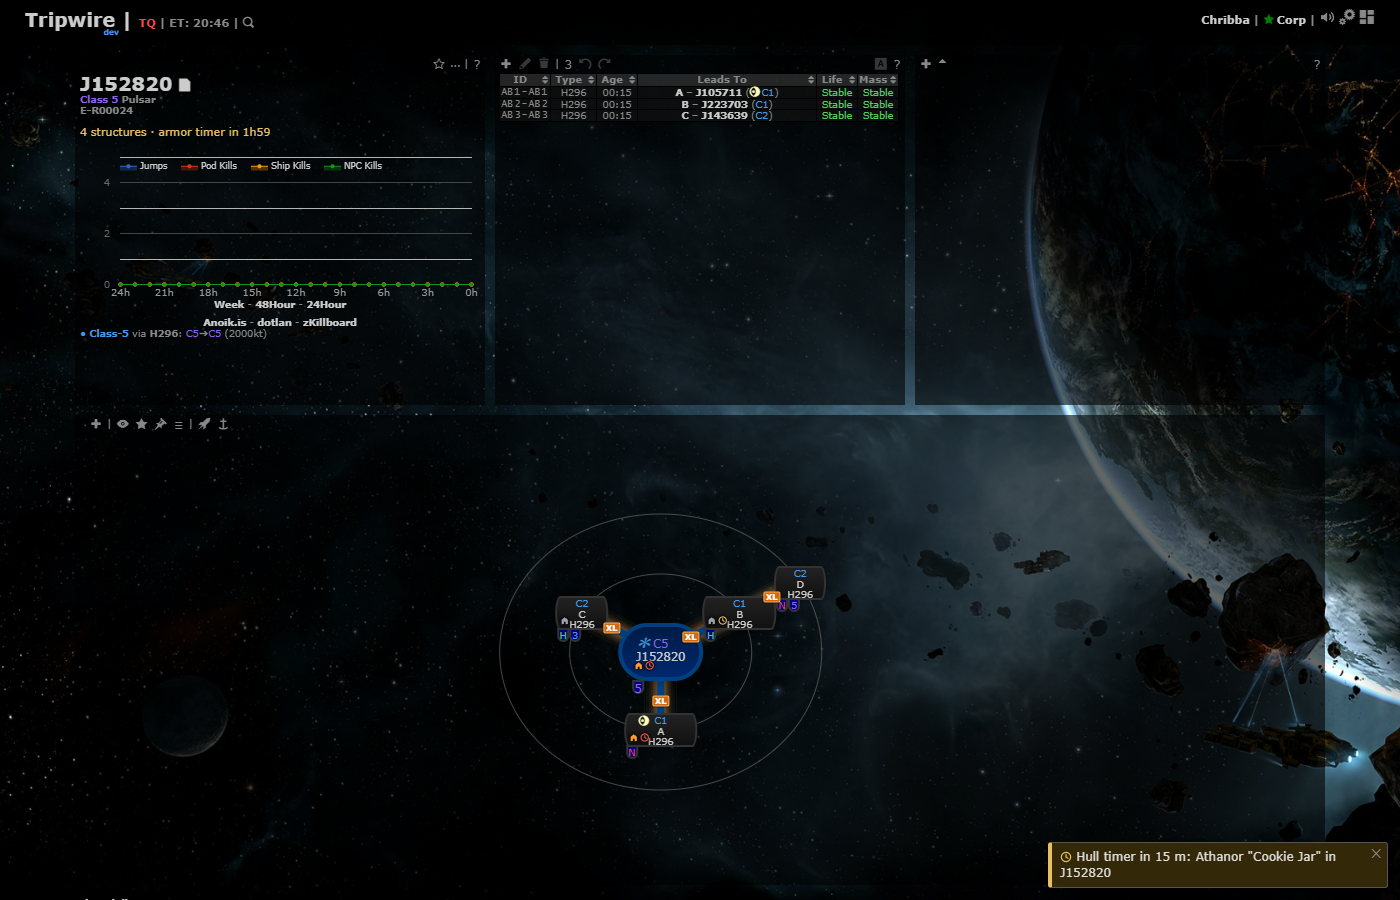
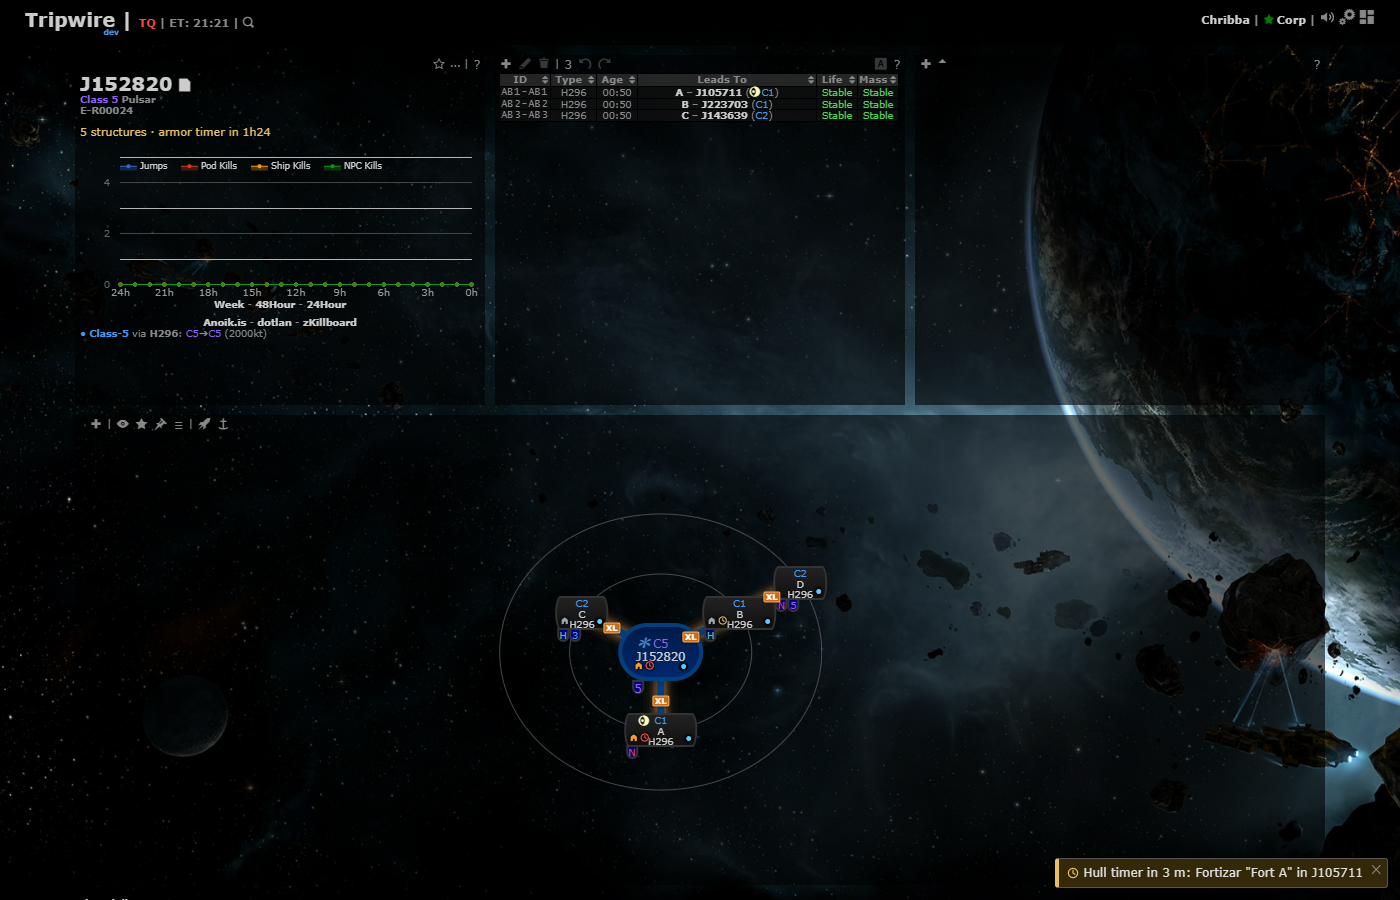
Structure timer reminders: review round 1 fixes

Changed region(s): [[0.7371, 0.9333, 1.0, 0.9956]]

diff --git a/app/js/fork/structure-timers.js b/app/js/fork/structure-timers.js
@@ -191,7 +191,8 @@ const structureTimers = {
 			if (!r || !r.timerAt || !r.timerKind || nowSec >= r.timerAt + structureTimers.ALERT_GRACE_S) { return; }
 			let lead = null;
 			structureTimers.ALERT_LEADS.forEach(function(l) {
-				if (r.timerAt - l <= nowSec && (lead === null || l < lead)) { lead = l; }
+				// Due, and not one that fell due before the timer was entered (the same rule as the Discord reminders)
+				if (r.timerAt - l <= nowSec && r.timerAt - l >= (r.timerSetAt || 0) && (lead === null || l < lead)) { lead = l; }
 			});
 			if (lead === null) { return; }
 			const key = r.id + ":" + r.timerAt + ":" + lead;
@@ -201,18 +202,20 @@ const structureTimers = {
 		return out.sort(function(a, z) { return a.row.timerAt - z.row.timerAt; });
 	},
 
-	/** "Hull timer in 15 m: Fortizar in J163701" */
-	alertText: function(alert, systemName) {
+	/** "Hull timer in 9 m: Fortizar "Fort Knox" in J163701" (the real minutes left when it is shown, "ended" from the end on) */
+	alertText: function(alert, systemName, nowSec) {
 		const r = alert.row;
 		const kind = (structureTimers.KIND_SHORT[r.timerKind] || "Timer") + " timer";
-		return kind + (alert.lead > 0 ? " in 15 m" : " ended") + ": " + r.typeName + (r.name ? " \"" + structures.splitName(r.name).rest + "\"" : "") + " in " + systemName;
+		const left = nowSec === undefined ? alert.lead : r.timerAt - nowSec;
+		const when = left <= 0 ? " ended" : left < 60 ? " in under a minute" : " in " + Math.ceil(left / 60) + " m";
+		return kind + when + ": " + r.typeName + (r.name ? " \"" + structures.splitName(r.name).rest + "\"" : "") + " in " + systemName;
 	},
 
-	alertHtml: function(alert, systemName) {
+	alertHtml: function(alert, systemName, nowSec) {
 		const esc = structures.escape;
 		return "<div class='kill-toast kill-toast-timer" + (alert.lead === 0 ? " kill-toast-timer-end" : "") + "' data-key='" + esc(alert.key) + "' title='Open the Timers board'>"
 			+ "<span class='kill-toast-close' title='Dismiss'>&#10005;</span>"
-			+ "<div class='kill-toast-text'><span class='str-alert-ico'>" + structures.icon("clock") + "</span> " + esc(structureTimers.alertText(alert, systemName)) + "</div></div>";
+			+ "<div class='kill-toast-text'><span class='str-alert-ico'>" + structures.icon("clock") + "</span> " + esc(structureTimers.alertText(alert, systemName, nowSec)) + "</div></div>";
 	},
 
 	// ---- Browser state ----
@@ -345,7 +348,7 @@ const structureTimers = {
 		let sound = null;
 		due.forEach(function(a) {
 			structureTimers.alerted[a.key] = true;
-			const $toast = $(structureTimers.alertHtml(a, structures.systemName(a.row.systemID)));
+			const $toast = $(structureTimers.alertHtml(a, structures.systemName(a.row.systemID), structureTimers.nowSec()));
 			$toast.on("click", function() { structureTimers.showPanel("timers"); $toast.remove(); });
 			$box.append($toast);
 			setTimeout(function() { $toast.fadeOut(400, function() { $toast.remove(); }); }, 20000);

diff --git a/app/js-test/fork/structure-timers.test.js b/app/js-test/fork/structure-timers.test.js
@@ -103,14 +103,25 @@ describe('Structure timers', () => {
 			assert.deepEqual(structureTimers.dueAlerts([t({ timerAt: at })], NOW_S, seen), []);
 			assert.equal(structureTimers.dueAlerts([t({ timerAt: at + 3600 })], at + 3600 - 60, seen).length, 1);
 		});
+		it('skips a lead that fell due before the timer was entered (as the Discord reminders do)', () => {
+			const at = NOW_S + 3600;
+			// entered 10 minutes before the end: the 15-minute lead is before that, only the end is left
+			const entered = [t({ timerAt: at, timerSetAt: at - 600 })];
+			assert.deepEqual(structureTimers.dueAlerts(entered, at - 300, {}), []);
+			assert.deepEqual(keys(structureTimers.dueAlerts(entered, at, {})), ['7:' + at + ':0']);
+			// entered 20 minutes before: the 15-minute lead counts
+			assert.deepEqual(keys(structureTimers.dueAlerts([t({ timerAt: at, timerSetAt: at - 1200 })], at - 300, {})), ['7:' + at + ':900']);
+		});
 		it('soonest first; timers without a kind or time are ignored', () => {
 			const list = [t({ id: 1, timerAt: NOW_S + 800 }), t({ id: 2, timerAt: NOW_S + 100 }), t({ id: 3, timerKind: null }), t({ id: 4, timerAt: null })];
 			assert.deepEqual(structureTimers.dueAlerts(list, NOW_S, {}).map((a) => a.row.id), [2, 1]);
 		});
 		it('text and toast: kind, lead, structure name without the system prefix, escaped', () => {
 			const a = { key: 'k<', lead: 900, row: t({ typeName: '<Fort>' }) };
-			assert.equal(structureTimers.alertText(a, 'J163701'), 'Hull timer in 15 m: <Fort> "Fort Knox" in J163701');
-			assert.equal(structureTimers.alertText({ lead: 0, row: t({ name: '' }) }, 'J1'), 'Hull timer ended: Fortizar in J1');
+			const at = a.row.timerAt;
+			assert.equal(structureTimers.alertText(a, 'J163701', at - 540), 'Hull timer in 9 m: <Fort> "Fort Knox" in J163701');
+			assert.equal(structureTimers.alertText(a, 'J1', at - 30).indexOf('Hull timer in under a minute'), 0);
+			assert.equal(structureTimers.alertText({ lead: 0, row: t({ name: '' }) }, 'J1', at + 5), 'Hull timer ended: Fortizar in J1');
 			const html = structureTimers.alertHtml(a, 'J163701');
 			assert.ok(html.includes('&lt;Fort&gt;') && html.includes("data-key='k&lt;'") && !html.includes('<Fort>'));
 			assert.ok(structureTimers.alertHtml({ key: 'k', lead: 0, row: t() }, 'J').includes('kill-toast-timer-end'));

diff --git a/structures/structures.inc.php b/structures/structures.inc.php
@@ -258,7 +258,7 @@ function structures_timer_in_range($timerAt, $now) {
 
 function structures_select() {
     return 'SELECT id, systemID, typeID, typeName, kind, name, ownerID, ownerType, ownerName, ownerTicker, ownerText, state, timerKind, '
-        . structures_ts('timerAt') . ' AS timerAt, timerSetBy, note, ' . structures_ts('firstSeenAt') . ' AS firstSeenAt, firstSeenBy, '
+        . structures_ts('timerAt') . ' AS timerAt, timerSetBy, ' . structures_ts('timerSetAt') . ' AS timerSetAt, note, ' . structures_ts('firstSeenAt') . ' AS firstSeenAt, firstSeenBy, '
         . structures_ts('lastSeenAt') . ' AS lastSeenAt, lastSeenBy, lastDistanceKm, ' . structures_ts('updatedAt') . ' AS updatedAt, updatedBy, '
         . structures_ts('goneAt') . ' AS goneAt, goneBy FROM fork_structures';
 }
@@ -279,7 +279,7 @@ function structures_format(array $r, array $friendly) {
         'kind' => $r['kind'], 'name' => $r['name'],
         'ownerID' => $int($r['ownerID']), 'ownerType' => $r['ownerType'], 'ownerName' => $r['ownerName'], 'ownerTicker' => $r['ownerTicker'],
         'ownerText' => $r['ownerText'], 'side' => $side,
-        'state' => $r['state'], 'timerKind' => $r['timerKind'], 'timerAt' => $int($r['timerAt']), 'timerSetBy' => $r['timerSetBy'],
+        'state' => $r['state'], 'timerKind' => $r['timerKind'], 'timerAt' => $int($r['timerAt']), 'timerSetBy' => $r['timerSetBy'], 'timerSetAt' => $int($r['timerSetAt']),
         'note' => $r['note'],
         'firstSeenAt' => $int($r['firstSeenAt']), 'lastSeenAt' => $int($r['lastSeenAt']), 'lastSeenBy' => $r['lastSeenBy'],
         'lastDistanceKm' => $r['lastDistanceKm'] === null ? null : (float) $r['lastDistanceKm'],
@@ -322,6 +322,7 @@ function structures_list(PDO $db, $mask, $systemID, array $friendly) {
 const STRUCTURES_MARKERS_MAX = 500;   // systems per markers request
 const STRUCTURES_BOARD_MAX   = 200;   // rows of the timers board
 const STRUCTURES_NEXT        = 20;    // next timers sent with the markers
+const STRUCTURES_NEXT_GRACE  = 120;   // ... which include ones that ended this many seconds ago (the alert for "ended")
 
 /** WHERE part for live rows (not gone, deployables not seen for a week hidden as in structures_list) */
 function structures_live_where() {
@@ -332,11 +333,11 @@ function structures_live_where() {
  * Active timers of the mask, soonest first: not ended more than 2 hours ago, whatever the system (in the chain or not).
  * @return array rows as structures_format()
  */
-function structures_timers(PDO $db, $mask, array $friendly, $now, $limit = STRUCTURES_BOARD_MAX) {
+function structures_timers(PDO $db, $mask, array $friendly, $now, $limit = STRUCTURES_BOARD_MAX, $grace = STRUCTURES_TIMER_PAST) {
     $stmt = $db->prepare(structures_select() . ' WHERE maskID = :mask AND ' . structures_live_where() . ' AND timerAt IS NOT NULL
         AND timerAt >= DATE_ADD(\'1970-01-01\', INTERVAL :from SECOND) ORDER BY timerAt, id LIMIT ' . max(1, (int) $limit));
     $stmt->bindValue(':mask', $mask);
-    $stmt->bindValue(':from', (int) $now - STRUCTURES_TIMER_PAST, PDO::PARAM_INT);
+    $stmt->bindValue(':from', (int) $now - (int) $grace, PDO::PARAM_INT);
     if (!$stmt->execute()) throw new PDOException('Could not read fork_structures');
     return array_map(function ($r) use ($friendly) { return structures_format($r, $friendly); }, $stmt->fetchAll(PDO::FETCH_ASSOC));
 }

diff --git a/discord/structure_timers.php b/discord/structure_timers.php
@@ -50,6 +50,13 @@ function discord_structure_timer_due_lead($timerAt, $timerSetAt, array $leads, $
     return $best;
 }
 
+/** Whether a reminder was already queued (its dedupe row exists): checked before any message is built, every poll */
+function discord_structure_timer_sent(PDO $db, $maskID, $ref) {
+    $stmt = $db->prepare('SELECT 1 FROM discord_sent WHERE maskID = ? AND kind = ? AND ref = ?');
+    $stmt->execute([(string) $maskID, DISCORD_STIMER_KIND, substr((string) $ref, 0, 64)]);
+    return (bool) $stmt->fetchColumn();
+}
+
 /** Unix time of a UTC 'Y-m-d H:i:s' column, or null */
 function discord_structure_timer_unix($value) {
     if ($value === null || $value === '') return null;
@@ -154,11 +161,16 @@ function discord_structure_timer_poll(PDO $db, array $masks, $now = null) {
             $lead = discord_structure_timer_due_lead($row['timerAt'], $row['timerSetAt'], $type['leads'], $now, $type['enabledAt'] ?? 0);
             if ($lead === null) continue;
             $ref = $row['id'] . ':' . $row['timerAt'] . ':' . $lead;
+            if (discord_structure_timer_sent($db, $maskID, $ref)) continue;   // nothing is built for what was already sent
             $chain = $chain ?? ($homeID > 0 ? discord_chain_systems_cached($db, $maskID, $homeID, $now) : []);
             $chainText = discord_structure_timer_chain_text($row['systemID'], $homeID, $chain, discord_chain_label($db, $maskID, $row['systemID']));
             $context = discord_structure_timer_context($row, $type, $lead, discord_mask_name($db, $maskID), $chainText, $now);
             $claim = function () use ($db, $maskID, $ref) { return discord_dedupe_once($db, $maskID, DISCORD_STIMER_KIND, $ref); };
-            if (discord_enqueue_once($db, $maskID, $type['webhookID'], 'structureTimer', $context, $claim, DISCORD_PRIORITY_STIMER) === null) continue;
+            if (discord_enqueue_once($db, $maskID, $type['webhookID'], 'structureTimer', $context, $claim, DISCORD_PRIORITY_STIMER) === null) {
+                // Not queued although it was new: the mask's outbox is full (the claim is rolled back, so the next poll tries again). Stop for this mask.
+                discord_log(sprintf('structure timers: outbox of mask %s is full, %s waits for the next poll', $maskID, $ref));
+                break;
+            }
             $queued++;
             discord_log(sprintf('queued structure timer %s: %s in %s for mask %s', $ref, $row['typeName'], $context['system'], $maskID));
         }

diff --git a/discord/tests/structure_timers_test.php b/discord/tests/structure_timers_test.php
@@ -158,6 +158,16 @@ cleanup($db);
 $ins(31001880, $now + 3600, $now - 86400, ['maskID' => OTHER]);
 $ins(31001880, $now + 3 * 86400, $now - 86400);
 check('other masks and timers beyond 24 h are not posted for this mask', discord_structure_timer_poll($db, [MASK => $settings()], $now), 0);
+// A full outbox: nothing is claimed (the dedupe rows are rolled back), the mask's loop stops, the next poll tries again
+cleanup($db);
+$ins(31001880, $now + 3600, $now - 86400);
+$ins(31001880, $now + 3600, $now - 86400, ['name' => 'J152820 - Second']);
+$fill = $db->prepare("INSERT INTO discord_outbox (maskID, webhookID, kind, priority, data, status, nextAttemptAt, createdAt) VALUES (?, 7, 'kspace', 10, '{}', 'queued', UTC_TIMESTAMP() + INTERVAL 1 HOUR, UTC_TIMESTAMP())");
+for ($i = 0; $i < DISCORD_OUTBOX_MASK_CAP; $i++) $fill->execute([MASK]);
+check('full outbox: nothing queued, nothing claimed', [discord_structure_timer_poll($db, [MASK => $settings()], $now), (int) $db->query("SELECT COUNT(*) FROM discord_sent WHERE maskID = '" . MASK . "' AND kind = 'stimer'")->fetchColumn()], [0, 0]);
+$db->exec("DELETE FROM discord_outbox WHERE maskID = '" . MASK . "' AND kind = 'kspace'");
+check('full outbox: after room is made both reminders go out', discord_structure_timer_poll($db, [MASK => $settings()], $now), 2);
+check('already sent: no second message, no context built (the dedupe row is looked at first)', [discord_structure_timer_poll($db, [MASK => $settings()], $now + 1), discord_structure_timer_sent($db, MASK, $db->query("SELECT ref FROM discord_sent WHERE maskID = '" . MASK . "' AND kind = 'stimer' LIMIT 1")->fetchColumn())], [0, true]);
 cleanup($db);
 $ins(31001880, $now + 3600, $now - 86400);
 check('without a webhook nothing is queued', discord_structure_timer_poll($db, [MASK => $settings(['webhookID' => 0])], $now), 0);

diff --git a/discord_notify.worker.php b/discord_notify.worker.php
@@ -99,9 +99,16 @@ function dn_run() {
                 if ($leader) $totals['kspace'] += discord_kspace_poll($db, dn_kspace_masks($db), $highWater);
                 else $highWater = discord_kspace_start($db);   // take over from about now (the poll re-reads an overlap)
                 // Watchlist matches: same leader, same cadence (dedupe rows make a second poller harmless anyway)
-                if ($leader) $totals['watchlist'] += discord_watchlist_poll($db, dn_type_masks($db, 'watchlist'));
+                // (each poll in its own try: a failure is logged and must not stop the chain notice, structure timers or the sender below)
+                if ($leader) {
+                    try { $totals['watchlist'] += discord_watchlist_poll($db, dn_type_masks($db, 'watchlist')); }
+                    catch (Throwable $error) { dn_log('watchlist poll failed: ' . $error->getMessage()); }
+                }
                 // Structure timer reminders (24 h / 1 h / 15 m / at the end): same leader, same cadence; the dedupe rows make a second poller harmless
-                if ($leader) $totals['stimer'] = ($totals['stimer'] ?? 0) + discord_structure_timer_poll($db, dn_type_masks($db, 'structureTimer'));
+                if ($leader) {
+                    try { $totals['stimer'] = ($totals['stimer'] ?? 0) + discord_structure_timer_poll($db, dn_type_masks($db, 'structureTimer')); }
+                    catch (Throwable $error) { dn_log('structure timer poll failed: ' . $error->getMessage()); }
+                }
                 // Chain kills on without a home system: one notice to their channel (same leader, same cadence)
                 if ($leader) discord_chain_notice_poll($db, dn_type_masks($db, 'chainKill'));
             }

diff --git a/structures/tests/structures_test.php b/structures/tests/structures_test.php
@@ -164,6 +164,8 @@ check('markers: no systems', structures_markers($mysql, MASK_A, [], $friendly, $
 $mine = function ($rows) use ($ms) { return array_values(array_filter($rows, function ($r) use ($ms) { return $r['systemID'] >= $ms; })); };	// the earlier tests left a timer in SYSTEM
 $timers = structures_timers($mysql, MASK_A, $friendly, $t);
 check('timers: soonest first, elapsed under 2 h included', array_map(function ($r) { return $r['timerKind']; }, $mine($timers)), ['hull', 'other', 'armor']);
+check('timers: rows say when the timer was set (the alerts skip leads before it)', is_int($mine($timers)[0]['timerSetAt']), true);
+check('timers: the alerts list (2 min grace) leaves out a timer that ended 30 minutes ago', array_map(function ($r) { return $r['timerKind']; }, $mine(structures_timers($mysql, MASK_A, $friendly, $t, STRUCTURES_NEXT, STRUCTURES_NEXT_GRACE))), ['other', 'armor']);
 check('timers: limit', count(structures_timers($mysql, MASK_A, $friendly, $t, 2)), 2);
 check('timers: ended more than 2 h ago drop off', count($mine(structures_timers($mysql, MASK_A, $friendly, $t + 4 * 3600))), 0);
 structures_set_gone($mysql, MASK_A, $byType['Astrahus'][0], 'destroyed', 'Scout');

diff --git a/public/structures.php b/public/structures.php
@@ -162,7 +162,8 @@ try {
 					if (trim((string) $id) !== '') $systemIDs[] = structures_system_param(trim((string) $id));
 				}
 				$output['systems'] = (object) structures_markers($mysql, $mask, $systemIDs, $friendly, $now);
-				$output['next'] = structures_timers($mysql, $mask, $friendly, $now, STRUCTURES_NEXT);
+				// For the in-app alerts: upcoming timers and ones that ended in the last 2 minutes (not the 2 h an "elapsed" timer stays listed)
+				$output['next'] = structures_timers($mysql, $mask, $friendly, $now, STRUCTURES_NEXT, STRUCTURES_NEXT_GRACE);
 			}
 			$hash = md5(json_encode(array($output['systems'] ?? null, $output['next'] ?? null, $output['timers'] ?? null, $output['capped'] ?? null)));
 			$have = isset($_GET['have']) ? $_GET['have'] : '';

diff --git a/changes/2026-10-11-structures-reminders/README.md b/changes/2026-10-11-structures-reminders/README.md
@@ -63,3 +63,4 @@ drawn from the mock's JSON by a script, so it is what the worker sent, shown the
   `app/js-test/fork/discord-notifications.test.js` had "rolling is the last type" assertions: updated.
 - Upstream files touched: none. No new third-party hosts.
 - Deploy note: no new env vars or tables (reads `fork_structures`); the worker restarts with the image.
+- Review round 1: the pop-up shows the real minutes left ("Hull timer in 9 m", "ended" from the end); a lead that fell due before the timer was entered is skipped in the browser too (`next` rows carry `timerSetAt`); the alerts list only holds upcoming timers and ones that ended in the last 2 minutes (not the 2 h an "elapsed" timer stays listed); the poll looks at the dedupe row before building a message and stops for a mask whose outbox is full (logged, nothing claimed); the watchlist and structure-timer polls each have their own try/catch so a failure does not stop the sender; the markers poll also runs for the alerts (off only when icons and alerts are both off).
